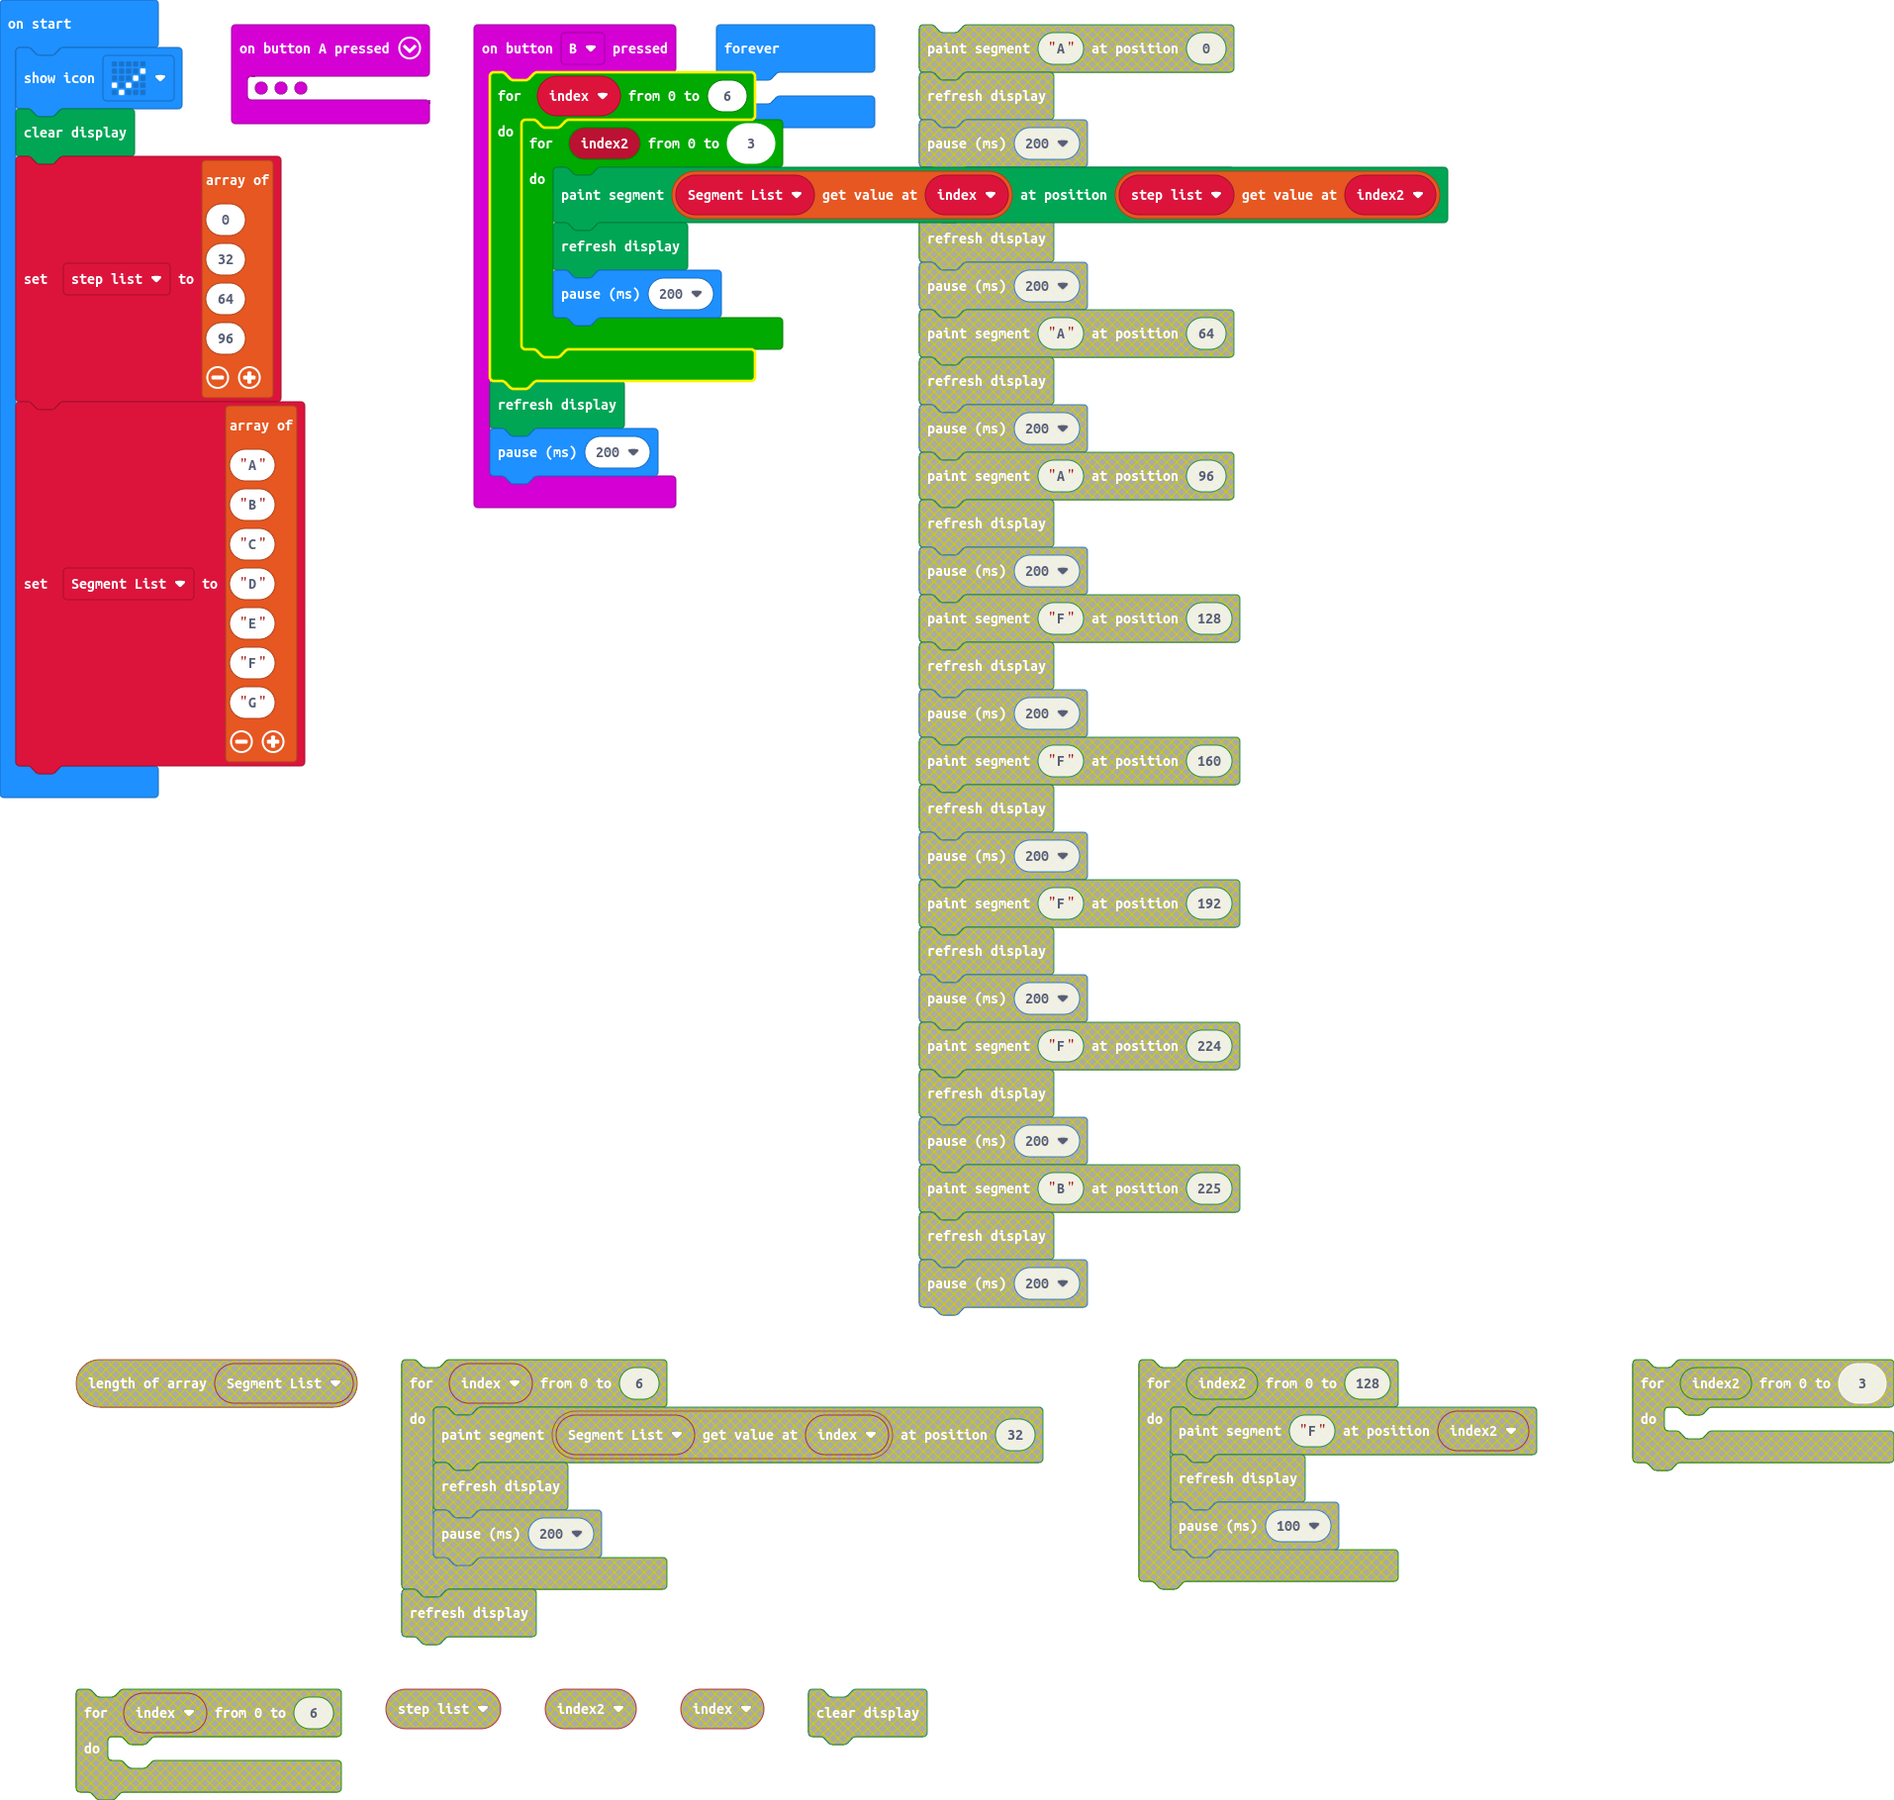
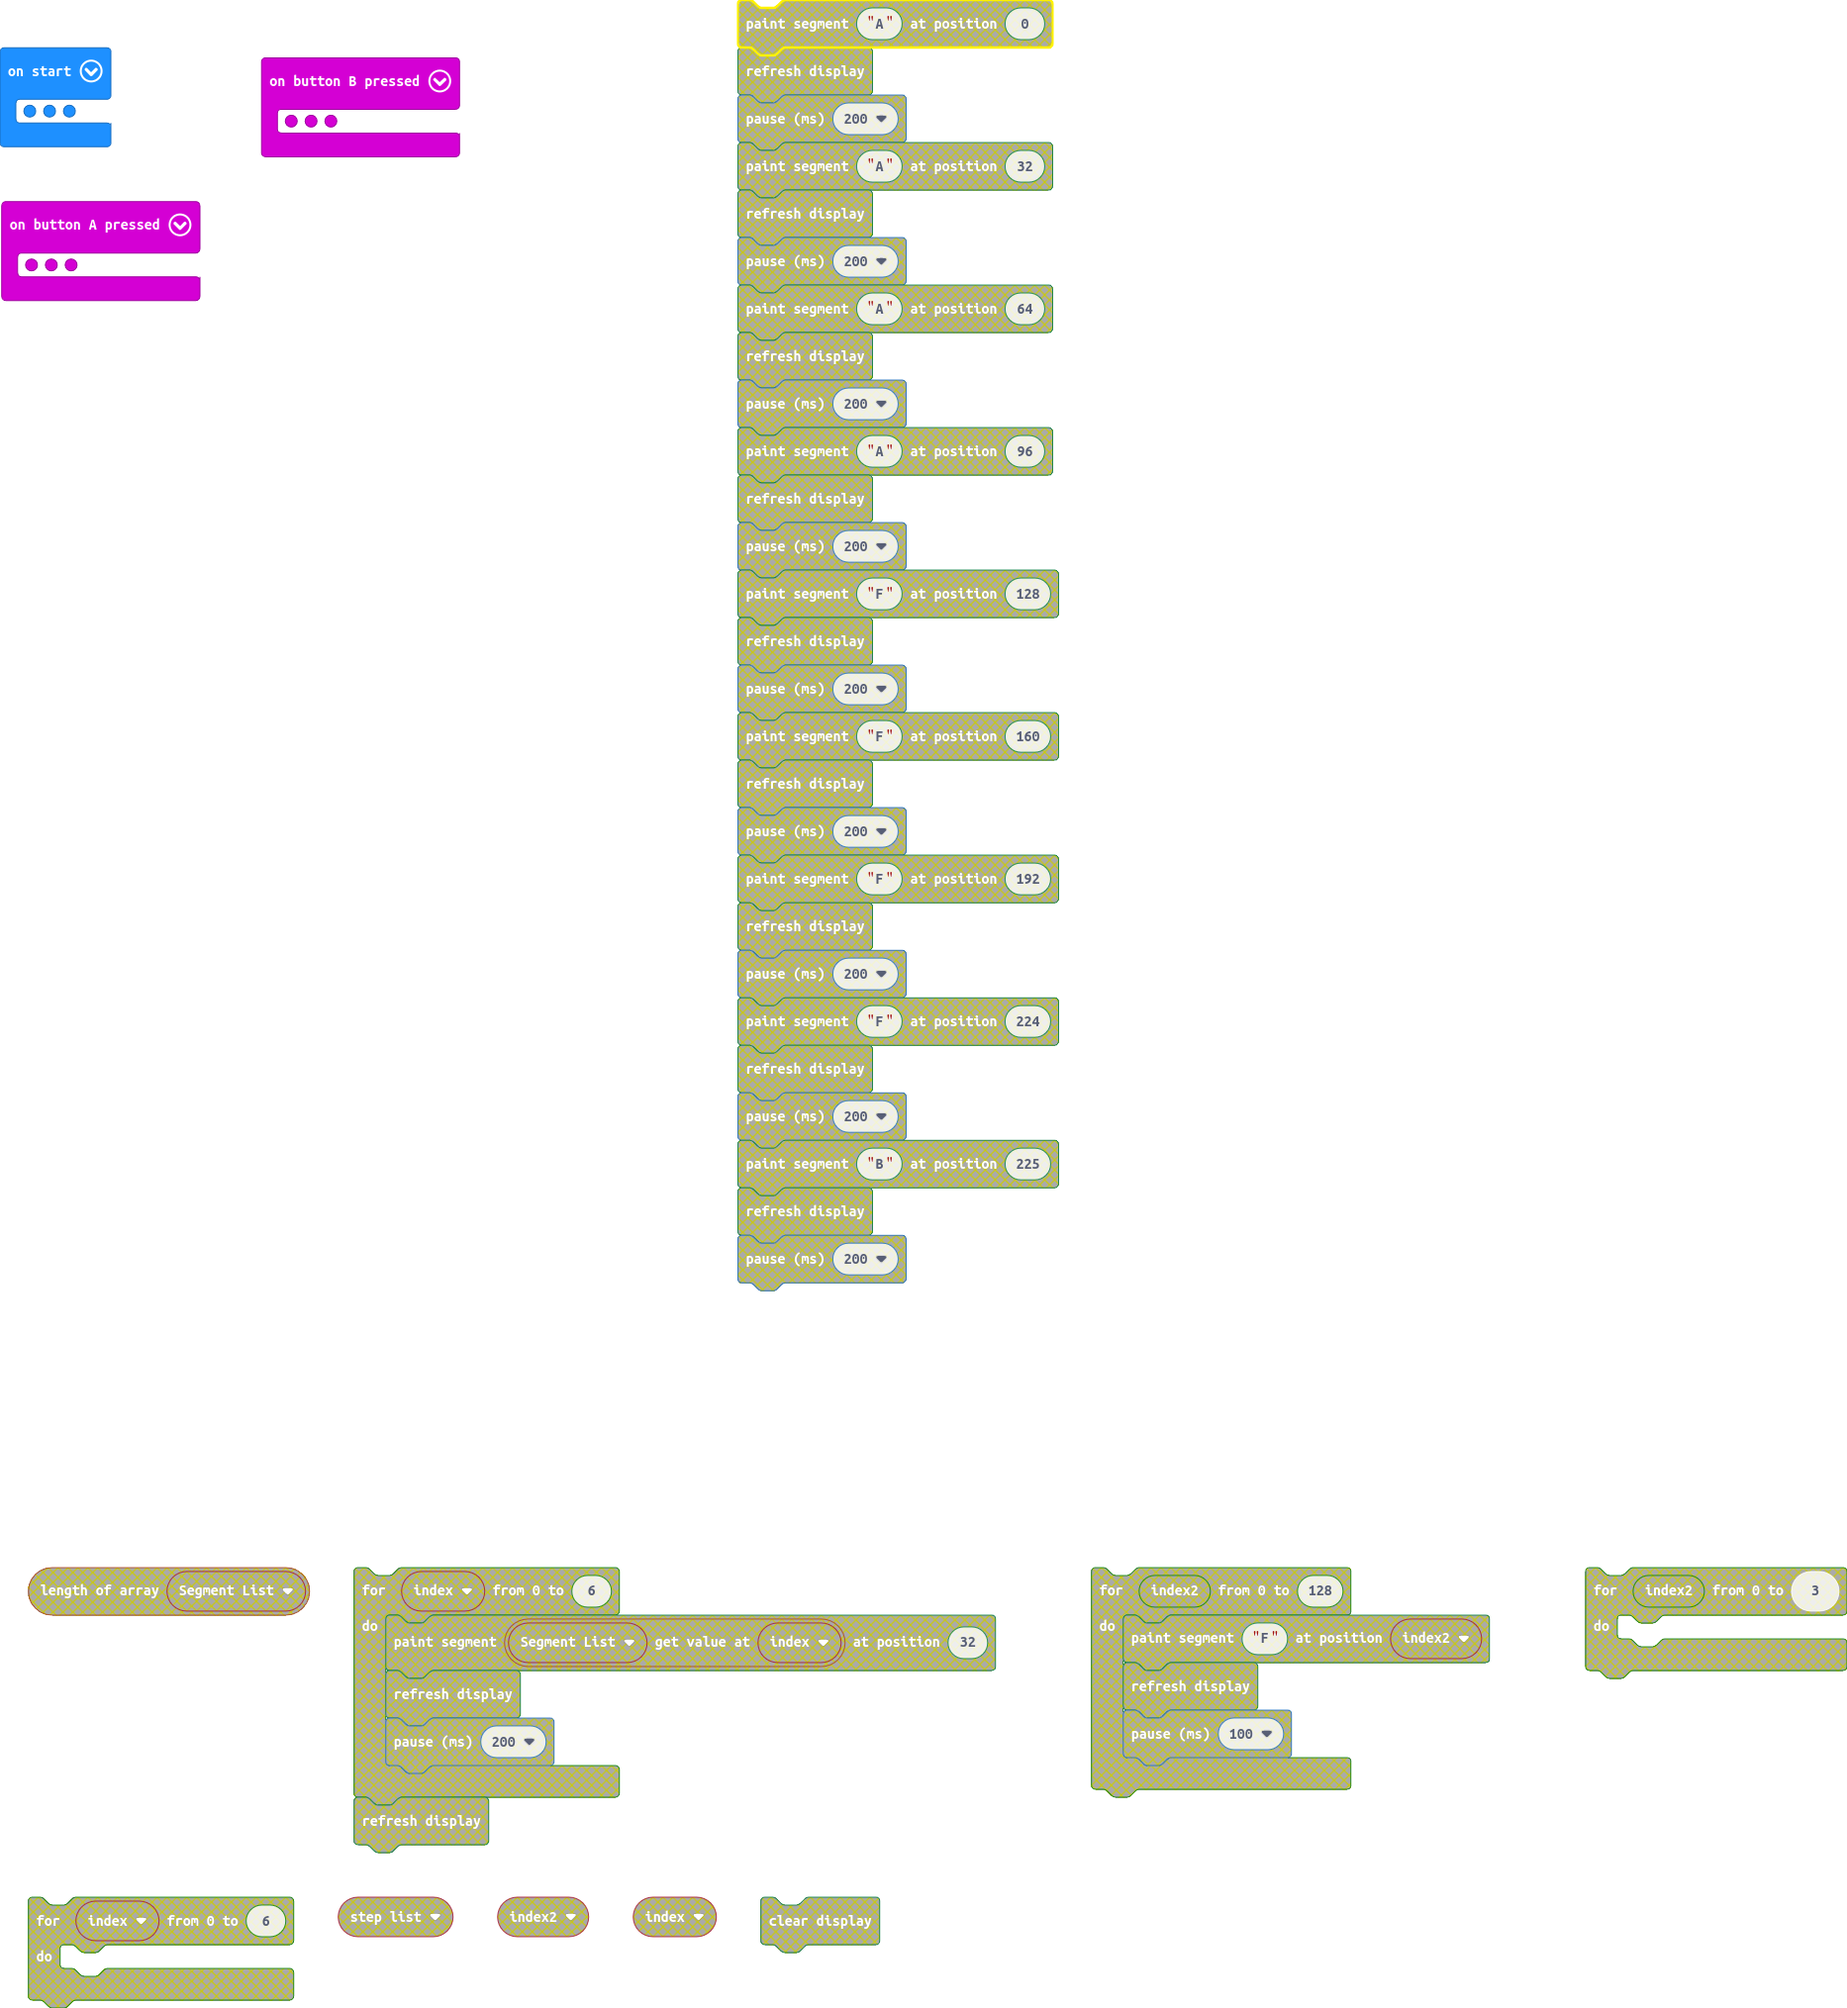
add comments

diff --git a/main.ts b/main.ts
@@ -1,5 +1,9 @@
+// Display Posistion number ( 0-3) in matching posistion
 input.onButtonPressed(Button.A, function () {
+    kitronik_VIEW128x64.clear()
     for (let index = 0; index <= 3; index++) {
+        // character posistions from 0 - LHS to 3 - RHS
+        // 
         kitronik_VIEW128x64.drawnum(index, index)
         kitronik_VIEW128x64.refresh()
         basic.pause(200)
@@ -7,7 +11,11 @@ input.onButtonPressed(Button.A, function () {
         kitronik_VIEW128x64.refresh()
     }
 })
+// display each segment ( A - G )  in each of the 4 main posistions across the display
+// *NOTE* this is pixel posistion NOT Column number!
+// 
 input.onButtonPressed(Button.B, function () {
+    kitronik_VIEW128x64.clear()
     for (let index = 0; index <= 6; index++) {
         for (let index2 = 0; index2 <= 3; index2++) {
             kitronik_VIEW128x64.drawsegment(Segment_List[index], step_list[index2])
@@ -22,12 +30,17 @@ let Segment_List: string[] = []
 let step_list: number[] = []
 basic.showIcon(IconNames.Yes)
 kitronik_VIEW128x64.clear()
+// List of screen posistions ( Columns? )
+// 
 step_list = [
 0,
 32,
 64,
 96
 ]
+// List of 7-Segment Display Segment "Names"
+// 
+// https://en.wikipedia.org/wiki/Seven-segment_display#/media/File:7_Segment_Display_with_Labeled_Segments.svg
 Segment_List = [
 "A",
 "B",
@@ -37,6 +50,3 @@ Segment_List = [
 "F",
 "G"
 ]
-basic.forever(function () {
-	
-})
